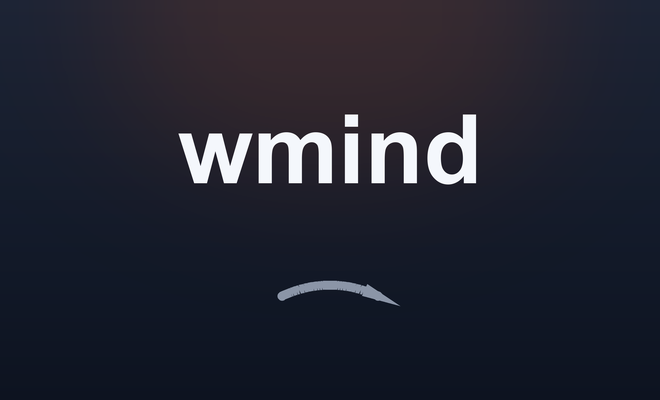
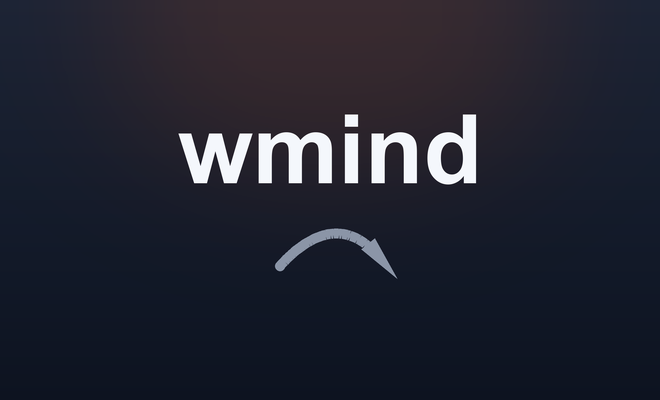
doc(desktop): DMG 构图上移，箭头改为抛入式弧线

Changed region(s): [[0.3939, 0.57, 0.6061, 0.69], [0.4242, 0.69, 0.6061, 0.78]]

diff --git a/scripts/build-dmg-background.py b/scripts/build-dmg-background.py
@@ -26,8 +26,9 @@ ROOT = Path(__file__).resolve().parent.parent
 RESOURCES = ROOT / "backend" / "desktop" / "resources"
 
 W, H = 660, 400
-APP_CENTER = (200, 300)
-FOLDER_CENTER = (460, 300)
+# 内容整体偏上：底部留白比顶部多，视觉重心在窗口中上部。
+APP_CENTER = (200, 272)
+FOLDER_CENTER = (460, 272)
 
 TITLE_FONTS = [
     "/System/Library/Fonts/Supplemental/Arial Bold.ttf",
@@ -54,36 +55,36 @@ def vertical_gradient(size, top, bottom):
     return img.resize((w, h))
 
 
-def curved_arrow(draw, start, end, bend, color, width):
-    """浅弧 + 箭头：起止同一水平线，中点向上拱起 bend。
+def curved_arrow(draw, start, end, rise, color, width):
+    """三次贝塞尔：先向上抬，再压平，末端切线接近水平——箭头「指向右边」。
 
-    起止等高、弧度放缓，箭头末端切线接近水平，看起来是「指向右边」而不是
-    「扎进文件夹」。两端补圆头，避免直角断口。
+    用对称二次曲线的问题是其末端切线必然向下斜，箭头看起来像扎进文件夹；
+    三次曲线把两个控制点都放在高位，曲线升上去以后走平，箭头才自然。
     """
     (x0, y0), (x1, y1) = start, end
-    cx, cy = (x0 + x1) / 2, (y0 + y1) / 2 - bend
+    c1 = (x0 + (x1 - x0) * 0.38, min(y0, y1) - rise)
+    c2 = (x0 + (x1 - x0) * 0.72, min(y0, y1) - rise)
     points = []
     for i in range(80):
         t = i / 79
-        x = (1 - t) ** 2 * x0 + 2 * (1 - t) * t * cx + t ** 2 * x1
-        y = (1 - t) ** 2 * y0 + 2 * (1 - t) * t * cy + t ** 2 * y1
+        x = (1 - t) ** 3 * x0 + 3 * (1 - t) ** 2 * t * c1[0] + 3 * (1 - t) * t ** 2 * c2[0] + t ** 3 * x1
+        y = (1 - t) ** 3 * y0 + 3 * (1 - t) ** 2 * t * c1[1] + 3 * (1 - t) * t ** 2 * c2[1] + t ** 3 * y1
         points.append((x, y))
     draw.line(points, fill=color, width=width, joint="curve")
-    for px, py in (points[0], points[-1]):
+    for px, py in (points[0],):
         draw.ellipse((px - width / 2, py - width / 2, px + width / 2, py + width / 2), fill=color)
-    # 箭头：三角形沿曲线末端的切线方向探出，尖端再往前一点点，
-    # 让箭头与弧线连成一个整体而不是两块拼接。
+    # 箭头沿末端切线方向探出。
     (px, py), (qx, qy) = points[-2], points[-1]
     angle = math.atan2(qy - py, qx - px)
-    head = width * 3.2
+    head = width * 3.4
+    tip = (x1 + math.cos(angle) * head * 0.8, y1 + math.sin(angle) * head * 0.8)
+    spread = 0.44
     base = (x1, y1)
-    tip = (x1 + math.cos(angle) * head * 0.85, y1 + math.sin(angle) * head * 0.85)
-    spread = 0.42
     draw.polygon(
         [
             tip,
-            (base[0] - math.cos(angle - spread) * head * 0.55, base[1] - math.sin(angle - spread) * head * 0.55),
-            (base[0] - math.cos(angle + spread) * head * 0.55, base[1] - math.sin(angle + spread) * head * 0.55),
+            (base[0] - math.cos(angle - spread) * head * 0.6, base[1] - math.sin(angle - spread) * head * 0.6),
+            (base[0] - math.cos(angle + spread) * head * 0.6, base[1] - math.sin(angle + spread) * head * 0.6),
         ],
         fill=color,
     )
@@ -127,11 +128,11 @@ def render_raw(scale):
     # 图标之间的弧形箭头。
     curved_arrow(
         draw,
-        (APP_CENTER[0] * scale + 82 * scale, APP_CENTER[1] * scale - 4 * scale),
-        (FOLDER_CENTER[0] * scale - 82 * scale, FOLDER_CENTER[1] * scale - 4 * scale),
-        22 * scale,
+        (APP_CENTER[0] * scale + 80 * scale, APP_CENTER[1] * scale - 6 * scale),
+        (FOLDER_CENTER[0] * scale - 80 * scale, FOLDER_CENTER[1] * scale - 14 * scale),
+        34 * scale,
         (139, 149, 167),
-        max(1, round(9 * scale)),
+        max(1, round(10 * scale)),
     )
     return img.convert("RGB")
 
